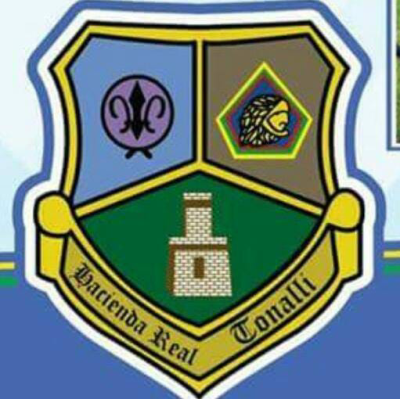
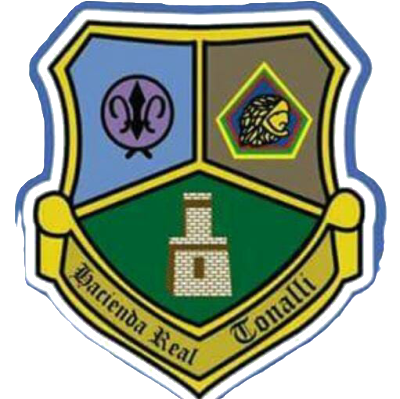
fix escudo 50

diff --git a/helpers/procesarEscudos.js b/helpers/procesarEscudos.js
@@ -83,7 +83,24 @@ async function processFile(file) {
 }
 
 (async () => {
-    const files = fs.readdirSync(srcDir).filter(f => /\.(jpe?g|png|webp)$/i.test(f));
+    // Sin argumentos procesa toda la carpeta. Con argumentos, solo esos
+    // escudos (por número o por nombre de archivo):
+    //   node helpers/procesarEscudos.js 50
+    //   node helpers/procesarEscudos.js 50.png 133.jpg
+    // Así se puede retocar un escudo recién agregado sin volver a escribir —
+    // y volver a comprimir— todos los demás.
+    const pedidos = process.argv.slice(2).map(a => path.parse(a).name);
+    const todos = fs.readdirSync(srcDir).filter(f => /\.(jpe?g|png|webp)$/i.test(f));
+    const files = pedidos.length
+        ? todos.filter(f => pedidos.includes(path.parse(f).name))
+        : todos;
+
+    if (pedidos.length && !files.length) {
+        console.error(`No se encontró ningún escudo para: ${pedidos.join(', ')}`);
+        process.exitCode = 1;
+        return;
+    }
+
     for (const f of files) {
         try {
             await processFile(f);

diff --git a/assets/css/trivia.css b/assets/css/trivia.css
@@ -501,8 +501,8 @@ a.tv-btn.ghost:hover { color: var(--cyan); }
 
 .tv-escudo img {
 	display: block;
-	width: 28px;
-	height: 28px;
+	width: 32px;
+	height: 32px;
 	object-fit: contain;
 }
 

diff --git a/README.md b/README.md
@@ -124,9 +124,15 @@ Cada vez que agregues o reemplaces un archivo en `images/grupos/Escudos/`.
 ### Cómo correrlo
 
 ```powershell
-# Desde la raíz del repo
+# Desde la raíz del repo — procesa toda la carpeta
 node helpers\procesarEscudos.js
+
+# Solo escudos concretos (por número o por nombre de archivo)
+node helpers\procesarEscudos.js 50
+node helpers\procesarEscudos.js 50.png 133.jpg
 ```
+
+Pasar argumentos evita reescribir —y volver a comprimir— los escudos que ya estaban bien.
 
 ### Qué hace
 
